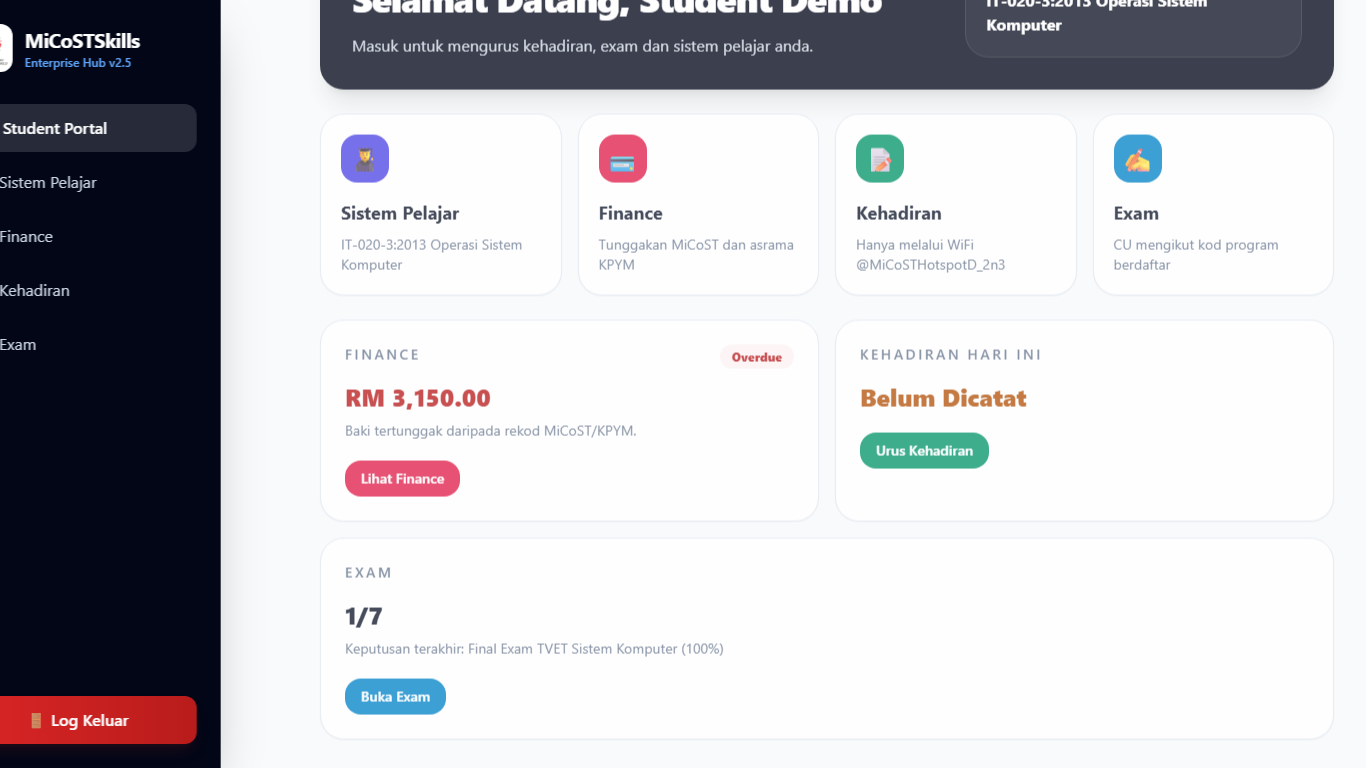
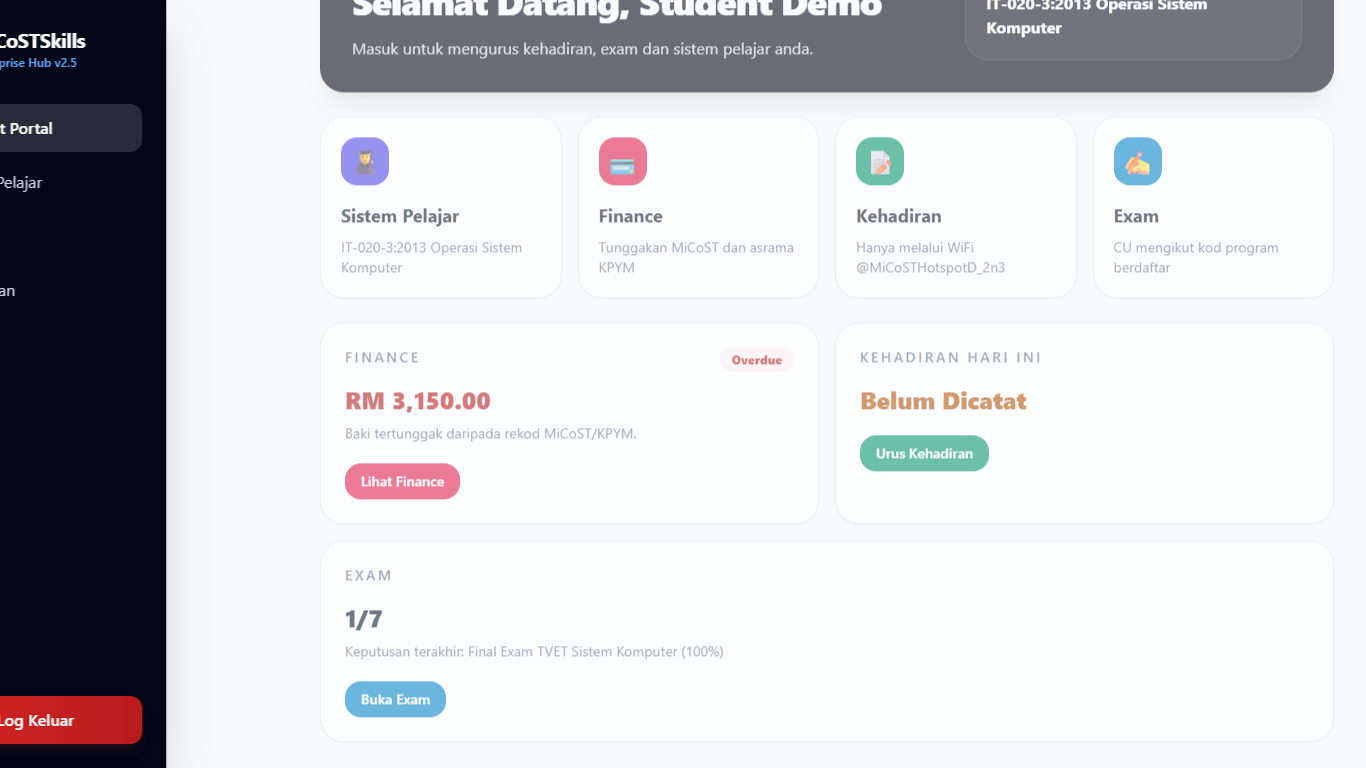
Separate admin portal login

diff --git a/frontend/public/student.html b/frontend/public/student.html
@@ -63,9 +63,12 @@
     let currentUser = JSON.parse(localStorage.getItem("user") || "null");
     let currentActiveMenu = "dashboard";
     const LOGO = "./resources/logo-micostskills.png";
-    const PORTAL_MODE = window.location.pathname === "/lecturer-portal" || new URLSearchParams(window.location.search).get("portal") === "lecturer"
-      ? "lecturer"
-      : "student";
+    const portalParam = new URLSearchParams(window.location.search).get("portal");
+    const PORTAL_MODE = window.location.pathname === "/admin-portal" || portalParam === "admin"
+      ? "admin"
+      : window.location.pathname === "/lecturer-portal" || portalParam === "lecturer"
+        ? "lecturer"
+        : "student";
     const PROGRAM_OPTIONS = [
       "F432-005-2:2019 Pemasangan dan Penyelenggaraan Elektrik",
       "F432-005-3:2019 Pemasangan dan Penyelenggaraan Elektrik",
@@ -188,11 +191,14 @@
         const data = await res.json().catch(() => ({}));
 
         if (!res.ok || data.error) throw new Error(data.error || "Gagal berhubung dengan backend.");
-        if (PORTAL_MODE === "lecturer" && data.user.role !== "lecturer" && data.user.role !== "admin") {
-          throw new Error("Akaun ini bukan akaun pensyarah. Sila login melalui Student Portal SKY.");
+        if (PORTAL_MODE === "admin" && data.user.role !== "admin") {
+          throw new Error("Akaun ini bukan akaun admin. Sila gunakan Student Portal atau Lecturer Portal.");
         }
-        if (PORTAL_MODE === "student" && data.user.role === "lecturer") {
-          throw new Error("Akaun pensyarah perlu login melalui Lecturer Portal.");
+        if (PORTAL_MODE === "lecturer" && data.user.role !== "lecturer") {
+          throw new Error("Akaun ini bukan akaun pensyarah. Sila login melalui portal yang betul.");
+        }
+        if (PORTAL_MODE === "student" && data.user.role !== "student") {
+          throw new Error("Student Portal hanya untuk akaun pelajar. Sila gunakan portal khas untuk role anda.");
         }
 
         token = data.token;
@@ -249,11 +255,14 @@
     function renderLogin() {
       const isDirectStudentPortal = window.location.pathname === "/student-portal";
       const isLecturerPortal = PORTAL_MODE === "lecturer";
-      const portalTitle = isLecturerPortal ? "Lecturer Portal" : "Student Portal";
-      const portalDescription = isLecturerPortal
+      const isAdminPortal = PORTAL_MODE === "admin";
+      const portalTitle = isAdminPortal ? "Admin Portal" : isLecturerPortal ? "Lecturer Portal" : "Student Portal";
+      const portalDescription = isAdminPortal
+        ? "Masuk untuk mengurus pengguna, kursus, exam, notifikasi dan kandungan website."
+        : isLecturerPortal
         ? "Masuk untuk mengurus keputusan CU, kehadiran dan maklumat ringkas pelajar."
         : "Masuk untuk mengurus kehadiran, exam dan sistem pelajar anda.";
-      const emailLabel = isLecturerPortal ? "Emel Pensyarah" : "Emel Pelajar";
+      const emailLabel = isAdminPortal ? "Emel Admin" : isLecturerPortal ? "Emel Pensyarah" : "Emel Pelajar";
 
       document.getElementById("app").innerHTML = `
         <main class="min-h-screen bg-slate-50">
@@ -274,10 +283,11 @@
                 <div class="flex items-center gap-2">
                   <button onclick="goToStudentPortal()" class="rounded-2xl bg-blue-700 px-5 py-3 text-white shadow-sm transition hover:bg-blue-800">Student Portal SKY</button>
                   <button onclick="goToLecturerPortal()" class="rounded-2xl border border-slate-300 bg-white px-5 py-3 text-slate-800 shadow-sm transition hover:border-blue-700 hover:text-blue-700">Lecturer Portal</button>
+                  <button onclick="goToAdminPortal()" class="rounded-2xl border border-red-200 bg-red-50 px-5 py-3 text-red-700 shadow-sm transition hover:border-red-600 hover:text-red-800">Admin Portal</button>
                 </div>
               </nav>
 
-              <button onclick="${isLecturerPortal ? "goToStudentPortal()" : "goToLecturerPortal()"}" class="rounded-2xl bg-blue-700 px-4 py-3 text-sm font-bold text-white shadow-sm lg:hidden">${isLecturerPortal ? "Student" : "Lecturer"} Portal</button>
+              <button onclick="${isAdminPortal ? "goToStudentPortal()" : "goToAdminPortal()"}" class="rounded-2xl bg-blue-700 px-4 py-3 text-sm font-bold text-white shadow-sm lg:hidden">${isAdminPortal ? "Student" : "Admin"} Portal</button>
             </div>
           </header>
 
@@ -290,6 +300,7 @@
                 <p class="mt-5 max-w-2xl text-lg text-slate-600">Training & skills-based learning hub (TVET) untuk program Elektrik dan Komputer.</p>
                 <div class="mt-8 flex flex-wrap gap-3">
                   <button onclick="goToStudentPortal()" class="rounded-2xl bg-red-600 px-6 py-4 text-sm font-bold text-white shadow-lg shadow-red-600/20 transition hover:bg-red-700">Masuk Student Portal</button>
+                  <button onclick="goToAdminPortal()" class="rounded-2xl border border-red-200 bg-red-50 px-6 py-4 text-sm font-bold text-red-700 transition hover:border-red-600">Admin Portal</button>
                   <a href="#program" class="rounded-2xl border border-slate-300 bg-white px-6 py-4 text-sm font-bold text-slate-900 transition hover:border-blue-700 hover:text-blue-700">Lihat Program</a>
                 </div>
               </div>
@@ -444,6 +455,15 @@
       }
 
       window.location.href = IS_STATIC_PREVIEW ? "./student.html?portal=lecturer" : "/lecturer-portal";
+    }
+
+    function goToAdminPortal() {
+      if (window.location.pathname === "/admin-portal") {
+        scrollToPortal();
+        return;
+      }
+
+      window.location.href = IS_STATIC_PREVIEW ? "./student.html?portal=admin" : "/admin-portal";
     }
 
     function togglePasswordVisibility() {
@@ -622,7 +642,7 @@
     function moduleShell(title, subtitle, body) {
       return `
         <div class="mb-6">
-          <p class="text-sm font-semibold uppercase tracking-[0.24em] text-indigo-600">${currentUser.role === "lecturer" ? "Lecturer Portal" : "Student Portal"}</p>
+          <p class="text-sm font-semibold uppercase tracking-[0.24em] text-indigo-600">${currentUser.role === "admin" ? "Admin Portal" : currentUser.role === "lecturer" ? "Lecturer Portal" : "Student Portal"}</p>
           <h1 class="mt-3 text-3xl font-bold text-slate-900">${title}</h1>
           <p class="mt-2 max-w-3xl text-slate-500">${subtitle}</p>
         </div>
@@ -1432,9 +1452,11 @@
       }
     }
 
-    if (token && currentUser && PORTAL_MODE === "lecturer" && currentUser.role !== "lecturer" && currentUser.role !== "admin") {
+    if (token && currentUser && PORTAL_MODE === "admin" && currentUser.role !== "admin") {
       logout();
-    } else if (token && currentUser && PORTAL_MODE === "student" && currentUser.role === "lecturer") {
+    } else if (token && currentUser && PORTAL_MODE === "lecturer" && currentUser.role !== "lecturer") {
+      logout();
+    } else if (token && currentUser && PORTAL_MODE === "student" && currentUser.role !== "student") {
       logout();
     } else if (token && currentUser) {
       renderDashboard();

diff --git a/tests/smoke.js b/tests/smoke.js
@@ -40,13 +40,29 @@ async function main() {
   await page.waitForSelector("text=Keputusan CU", { timeout: 10000 });
   await page.screenshot({ path: path.join(SCREENSHOT_DIR, "qa-lecturer-dashboard.png"), fullPage: false });
 
+  await page.evaluate(() => localStorage.clear());
+  await page.goto(`${BASE_URL}/student-portal`, { waitUntil: "networkidle" });
+  await page.locator("#email").fill("[email redacted]");
+  await page.locator("#password").fill("admin123");
+  await page.getByRole("button", { name: "Log Masuk" }).click();
+  await page.waitForSelector("text=Student Portal hanya untuk akaun pelajar", { timeout: 10000 });
+
+  await page.evaluate(() => localStorage.clear());
+  await page.goto(`${BASE_URL}/admin-portal`, { waitUntil: "networkidle" });
+  await page.locator("#email").fill("[email redacted]");
+  await page.locator("#password").fill("admin123");
+  await page.getByRole("button", { name: "Log Masuk" }).click();
+  await page.waitForSelector("text=Dashboard Utama", { timeout: 10000 });
+  await page.waitForSelector("text=Admin Panel", { timeout: 10000 });
+  await page.screenshot({ path: path.join(SCREENSHOT_DIR, "qa-admin-dashboard.png"), fullPage: false });
+
   await browser.close();
 
   if (consoleErrors.length) {
     throw new Error(`Browser console errors found:\n${consoleErrors.join("\n")}`);
   }
 
-  console.log("Smoke test passed for home, student portal, and lecturer portal.");
+  console.log("Smoke test passed for home, student portal, lecturer portal, and admin portal.");
 }
 
 main().catch(async (error) => {

diff --git a/backend/server.js b/backend/server.js
@@ -865,6 +865,10 @@ app.get("/lecturer-portal", (_req, res) => {
   res.sendFile(path.join(FRONTEND_DIR, "student.html"));
 });
 
+app.get("/admin-portal", (_req, res) => {
+  res.sendFile(path.join(FRONTEND_DIR, "student.html"));
+});
+
 app.get("/", (_req, res) => {
   res.sendFile(path.join(FRONTEND_DIR, "index.html"));
 });

diff --git a/frontend/public/assets/js/shared-components.js b/frontend/public/assets/js/shared-components.js
@@ -7,6 +7,7 @@ function loadSharedComponents() {
   const isStaticPreview = window.location.protocol === "file:" || window.location.hostname.endsWith("github.io");
   const studentPortalHref = isStaticPreview ? "./student.html" : `${portalOrigin}/student-portal`;
   const lecturerPortalHref = isStaticPreview ? "./student.html?portal=lecturer" : `${portalOrigin}/lecturer-portal`;
+  const adminPortalHref = isStaticPreview ? "./student.html?portal=admin" : `${portalOrigin}/admin-portal`;
   // 1. LOAD HEADER & NAVBAR WITH PREMIUM MICRO-INTERACTIONS
   const siteHeader = `
     <header id="siteHeader" class="sticky top-0 z-50">
@@ -75,6 +76,7 @@ function loadSharedComponents() {
               <div class="absolute right-0 mt-1 w-64 origin-top-right rounded-xl border border-slate-100 bg-white p-2 shadow-xl opacity-0 scale-95 pointer-events-none group-hover:opacity-100 group-hover:scale-100 group-hover:pointer-events-auto transition-all duration-200 z-50">
                 <a href="${studentPortalHref}" class="block w-full rounded-lg px-4 py-3 text-center text-sm font-bold text-slate-700 hover:bg-indigo-50 hover:text-indigo-700 transition">Student Portal SKY</a>
                 <a href="${lecturerPortalHref}" class="mt-1 block w-full rounded-lg px-4 py-3 text-center text-sm font-bold text-slate-700 hover:bg-indigo-50 hover:text-indigo-700 transition">Lecturer Portal</a>
+                <a href="${adminPortalHref}" class="mt-1 block w-full rounded-lg px-4 py-3 text-center text-sm font-bold text-red-700 hover:bg-red-50 transition">Admin Portal</a>
               </div>
             </div>
           </div>

diff --git a/README.md b/README.md
@@ -16,6 +16,7 @@ On Windows you can also double-click `start-micost.bat`, then open:
 
 - `http://localhost:3000/student-portal`
 - `http://localhost:3000/lecturer-portal`
+- `http://localhost:3000/admin-portal`
 
 Do not open `frontend/public/student.html` directly with `file://` for daily use because the portal needs the local Express API.
 
@@ -24,6 +25,8 @@ Do not open `frontend/public/student.html` directly with `file://` for daily use
 - Admin: `[email redacted]` / `admin123`
 - Student: `[email redacted]` / `student123`
 - Lecturer: `[email redacted]` / `lecturer123`
+
+Admin login is separated from the student and lecturer login screens. Use `/admin-portal` for admin access.
 
 ## Project Structure
 